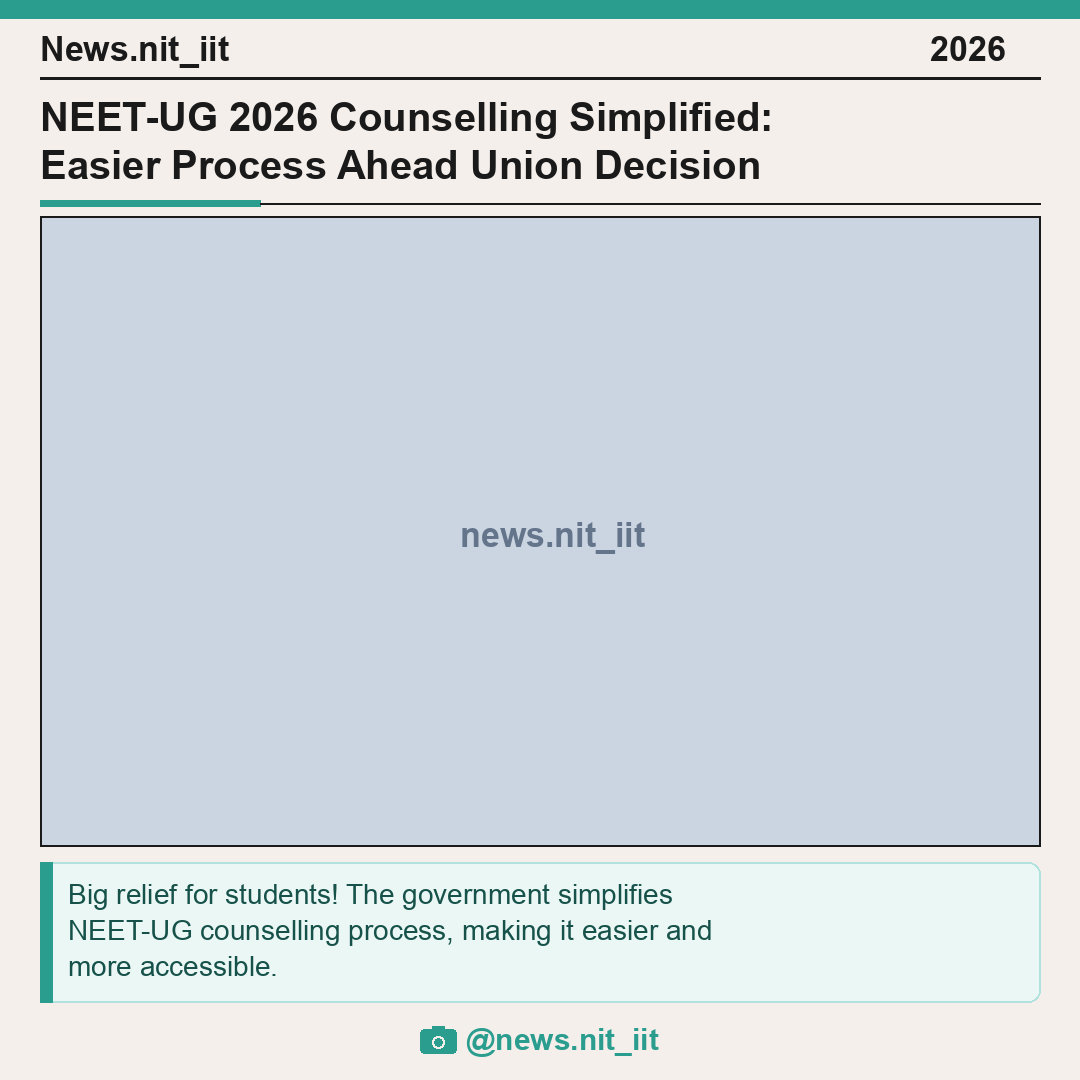
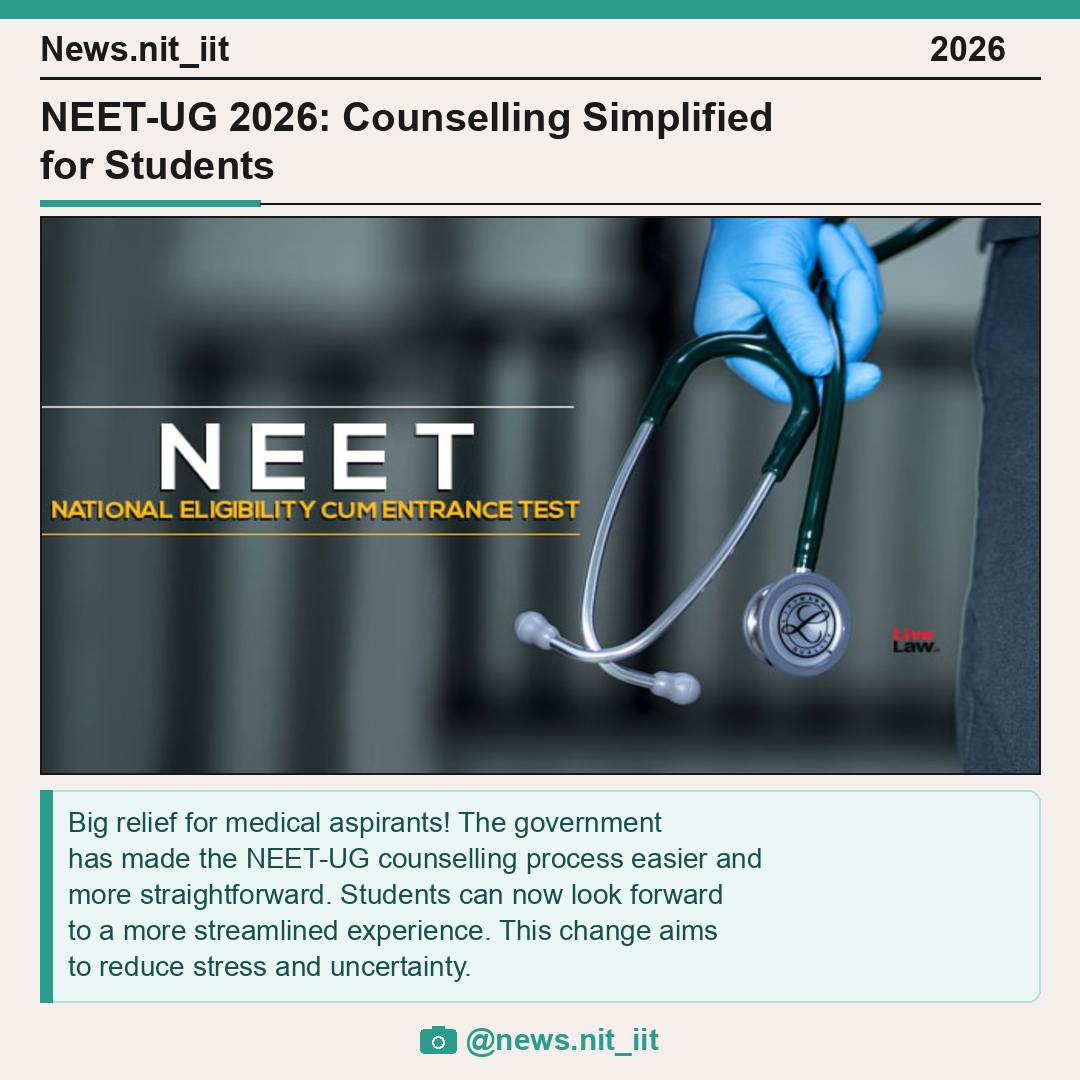
Implement whitelist-based conditional image search and increase summary length to 4-5 lines

diff --git a/generate_image.py b/generate_image.py
@@ -1,26 +1,116 @@
 """
 generate_image.py
-Generates photorealistic news illustrations and quote portraits 100% from AI
-using the Flux model on Pollinations.ai (no search engine lookup).
+Generates illustrations for news posts and quote posters.
+If a news story mentions a specific leader or organization from the whitelist,
+it downloads a real photo from the web. Otherwise, it generates the image 100% via AI (Flux).
 """
 
 import os
 import time
 import urllib.parse
+import json
+import re
 import requests
+from PIL import Image
 
 IMAGE_WIDTH = 1080
 IMAGE_HEIGHT = 480
 POLLINATIONS_BASE = "https://image.pollinations.ai/prompt/"
 RATE_LIMIT_SECONDS = 5
 
+# Whitelist of leaders and organizations for which we want REAL web photos
+REAL_IMAGE_KEYWORDS = [
+    # Leaders / Historical Figures
+    "narendra modi", "droupadi murmu", "amit shah", "rajnath singh", "nitin gadkari",
+    "rahul gandhi", "mallikarjun kharge", "yogi adityanath", "arvind kejriwal",
+    "mamata banerjee", "m. k. stalin", "devendra fadnavis", "piyush goyal",
+    "nirmala sitharaman", "ashwini vaishnaw", "dr. a. p. j. abdul kalam",
+    "swami vivekananda", "savitribai phule", "jyotirao phule", "vikram sarabhai",
+    "c. v. raman", "homi j. bhabha", "verghese kurien",
+    # Organizations / Exams / Logos
+    "upsc", "ssc", "nta", "neet", "jee", "cbse", "gate", "ugc net", "cuet",
+    "clat", "cat", "iit", "nit", "aiims", "isro", "drdo"
+]
+
+
+def fetch_search_image(query, output_path):
+    """
+    Queries Bing Images for a matching real photo, downloads it,
+    and returns the local file path.
+    """
+    headers = {
+        "User-Agent": "Mozilla/5.0 (Windows NT 10.0; Win64; x64) AppleWebKit/537.36 (KHTML, like Gecko) Chrome/120.0.0.0 Safari/537.36"
+    }
+    search_url = f"https://www.bing.com/images/search?q={urllib.parse.quote(query)}"
+    
+    try:
+        print(f"  Searching real photo for: '{query}'")
+        res = requests.get(search_url, headers=headers, timeout=15)
+        if res.status_code != 200:
+            return None
+
+        # Parse Bing's metadata class 'iusc' containing high-res image URLs ('murl')
+        matches = re.findall(r'class="iusc"[^>]*m="([^"]+)"', res.text)
+        image_urls = []
+        for m_str in matches:
+            try:
+                # Clean HTML entity encodings if present
+                clean_json = m_str.replace("&quot;", '"')
+                m_data = json.loads(clean_json)
+                murl = m_data.get("murl")
+                if murl and murl.startswith("http"):
+                    image_urls.append(murl)
+            except Exception:
+                continue
+
+        # Try downloading the first 5 image results until one succeeds
+        for img_url in image_urls[:5]:
+            try:
+                print(f"    Trying download: {img_url[:60]}")
+                img_res = requests.get(img_url, headers=headers, timeout=10)
+                if img_res.status_code == 200:
+                    os.makedirs(os.path.dirname(output_path), exist_ok=True)
+                    with open(output_path, "wb") as f:
+                        f.write(img_res.content)
+                    
+                    # Validate that it is a readable image
+                    with Image.open(output_path) as img:
+                        img.verify()
+                    
+                    print(f"    🎉 Success! Downloaded real photo from web.")
+                    return output_path
+            except Exception as e:
+                continue
+                
+    except Exception as e:
+        print(f"  Search query failed: {e}")
+
+    return None
+
 
 def generate_image(prompt, summary="", output_path="output/images/story.jpg", width=IMAGE_WIDTH, height=IMAGE_HEIGHT, model="flux"):
     """
-    Generates a 1080x480 news banner or a 1080x1080 quote watermark using Flux.
+    Generates a photo for a story.
+    If the prompt/headline mentions a whitelisted leader or organization, it searches and downloads a real photo.
+    Otherwise, it uses Flux to generate the illustration directly.
     """
     is_quote = (width == 1080 and height == 1080)
     
+    # 1. For non-quotes, check if the prompt mentions any of the whitelisted entities
+    if not is_quote:
+        lower_prompt = prompt.lower()
+        matched_kws = [kw for kw in REAL_IMAGE_KEYWORDS if kw in lower_prompt]
+        
+        if matched_kws:
+            # Construct a clean entity-based search query (e.g. "Rahul Gandhi news photo")
+            search_query = " ".join([k.upper() if len(k) <= 5 else k.title() for k in matched_kws]) + " news photo"
+            print(f"  Leader/Org detected: {matched_kws}. Redirecting to web search...")
+            local_photo = fetch_search_image(search_query, output_path)
+            if local_photo:
+                return local_photo
+            print("  ⚠ Web search download failed. Falling back to AI generation...")
+
+    # 2. Generate 100% via AI (Flux)
     if is_quote:
         print(f"  🎨 Generating Author portrait via Flux: '{prompt[:50]}...'")
     else:
@@ -60,7 +150,7 @@ def generate_images_for_stories(stories, output_dir="output/images"):
 
 if __name__ == "__main__":
     path = generate_image(
-        prompt="A professional news photograph of an Indian college classroom with students coding on laptops, natural lighting",
+        prompt="A professional news photograph of Rahul Gandhi speaking, natural lighting",
         output_path="output/images/test_web_image.jpg",
     )
     if path:

diff --git a/rewrite_news.py b/rewrite_news.py
@@ -17,7 +17,7 @@ Description: {description}
 
 Write:
 1. A detailed 2-line headline with emojis (Make it long enough to span exactly two lines, around 15-20 words, 60-80 characters total. E.g. 🚀 Union Budget 2026: Key Policy Decisions Announced for Student Loans)
-2. A 2-3 line summary (max 50 words) explaining the key facts in plain, engaging language suitable for an Instagram/social media audience
+2. A detailed 3-4 line summary (around 50-70 words) explaining the key facts in plain, engaging language suitable for an Instagram/social media audience
 3. A detailed, descriptive image generation prompt to generate a photorealistic news photo representing this story (E.g. "A professional news photograph of Indian college students working in a modern computer lab, natural lighting, high detail, editorial look" or "A professional news photograph of an Indian political leader speaking in the Rajya Sabha chamber, Delhi, photorealistic"). Avoid text, words, or logos.
 
 Return ONLY a JSON object in this exact format, nothing else, no markdown fences:
